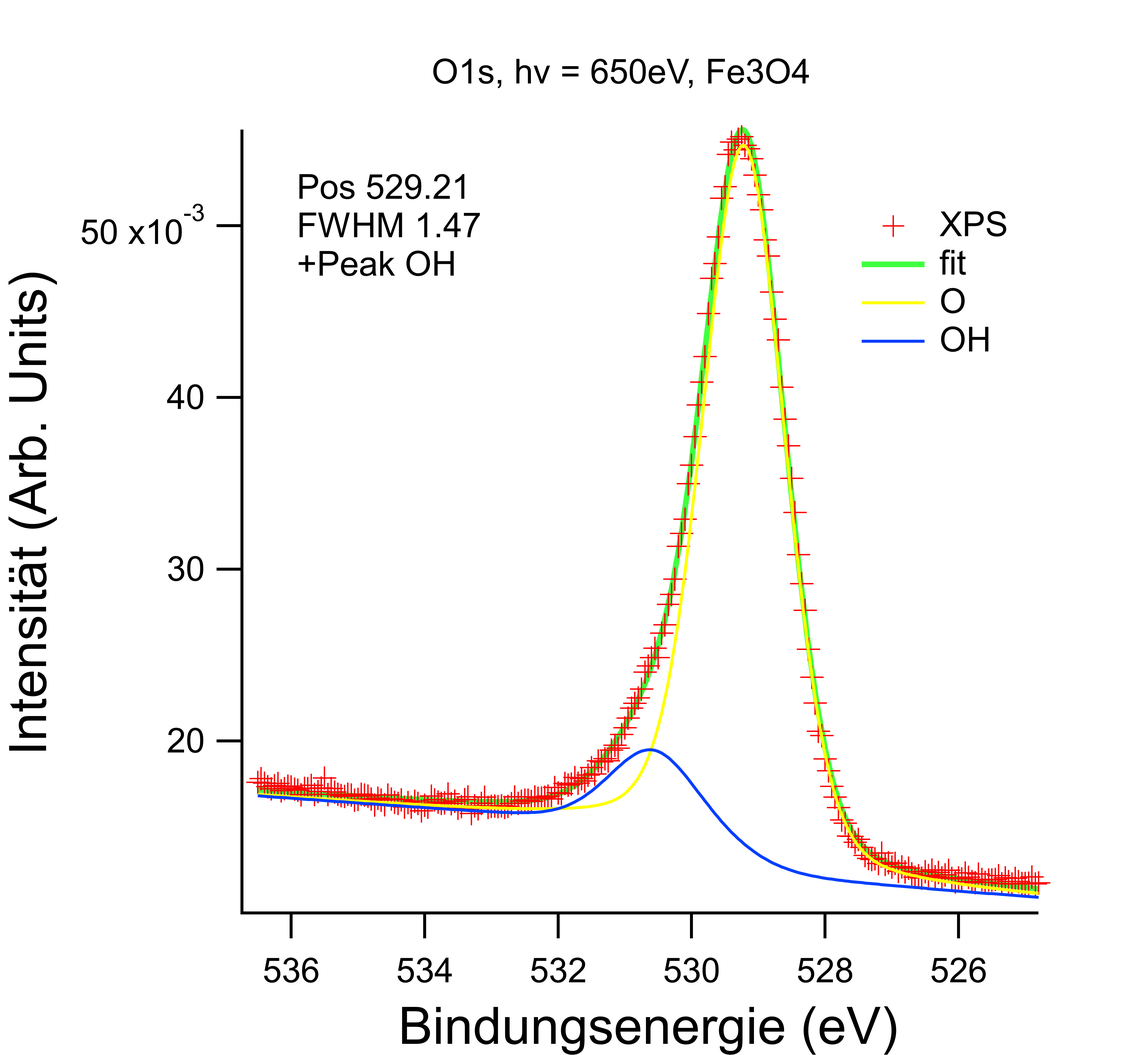
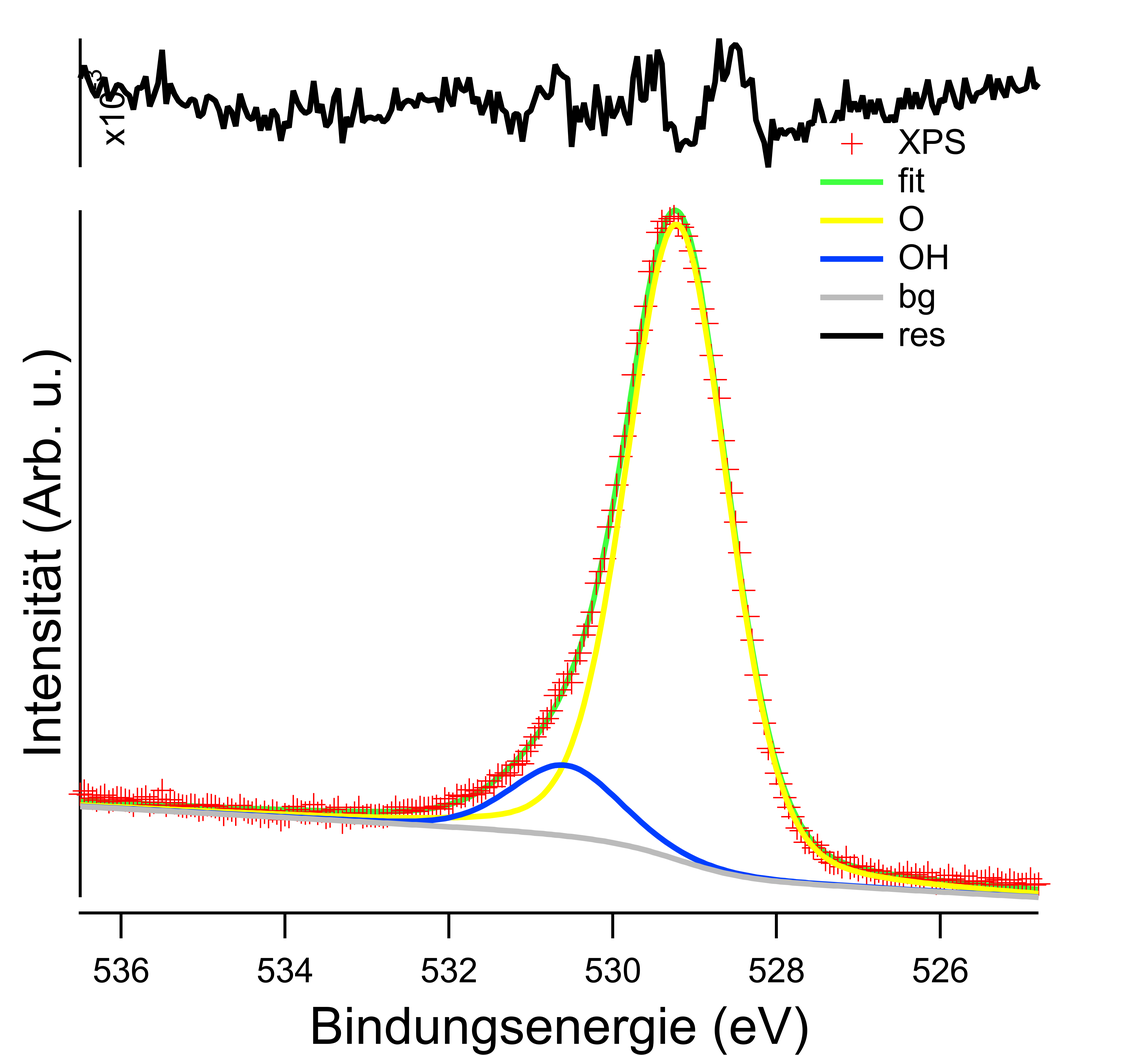
Ergebnisse überarbeitet

diff --git a/content/04_Ergebnisse.tex b/content/04_Ergebnisse.tex
@@ -1,15 +1,14 @@
 \chapter{Ergebnisse}
     Um verschiedene antiferromagnetische Oberflächen zu untersuchen werden diese zunächst präperiert und anschließend charakterisiert.
     Dabei werden zwei unterschiedliche Substrate auf unterschiedliche Weise hergestellt.
-    Die Nickeloxidfilm wurden alle in dem Versuchsaufbau aus \autoref{sec:Versuchsaufbau} vorbereitet und vermessen.
-    Dabei betrug die Photonenenergie immer \SI{21.22}{\electronvolt} und die Probe befands sich bei Raumtemperatur.
+    Die Nickeloxidfilme wurden alle in dem Versuchsaufbau aus \autoref{sec:Versuchsaufbau} vorbereitet und vermessen.
+    Dabei betrug die Photonenenergie immer \SI{21.22}{\electronvolt} und die Probe befand sich bei Raumtemperatur.
     Ergebnisse der Präperation finden sich in \autoref{sec:Prep_NiO}.
-    Das zweite Substrat, das Eisenmonooxid wurde an der NanoESCA Beamline am Synchrotron Elettra in Triest präperiert und charakterisiert \footnote{Näheres zu diesem Versuchsaufbau und der Behandlung der Daten kann in~\cite{ma-DJ} gefunden werden.}.
-    Die Details dieses Prozesses sind in \autoref{sec:Prep_FeO} zusammen gefasst.
-    Auf beide Substrate wurden dann Pentacene Molekühle aufgedampft und mittels der Beugung niederenergetischer Elektronen sowie der Moleküle Orbitale Tomographie betrachtet.
+    Das zweite Substrat, das Eisenmonooxid wurde an der NanoESCA Beamline am Synchrotron Elettra in Trieste präperiert und charakterisiert \footnote{Näheres zu diesem Versuchsaufbau und der Behandlung der Daten kann in~\cite{ma-DJ} gefunden werden.}.
+    Die Details dieses Prozesses sind in \autoref{sec:Prep_FeO} zusammengefasst.
+    Auf beide Substrate wurden Pentacene Molekühle aufgedampft und mittels der Beugung niederenergetischer Elektronen sowie der Molekülorbitaltomographie betrachtet.
     Dessen Ergebnisse sind in \autoref{sec:Ergeb} zusammen gestellt.
     Zur Analyse und Bearbeitung der Daten finden die Software IGOR Pro 8~\cite{IGOR} und Inkscape~\cite{Inkscape} Anwendung.
-
 
     \section{Präperation Nickeloxid} \label{sec:Prep_NiO}
         \begin{figure}
@@ -47,7 +46,7 @@
         Zusätzlich ist die erste Oberflächenbrillouinzone eingetragen, sowie einige Hochsymmetriepunkte.
         Durch Schneiden entlang der orange gestrichelten Linien zwischen den Hochsymmetriepunkten ergibt sich die Bandstruktur, welche in \autoref{fig:Band_Au} dargestellt ist.
         % So lassen sich dann auch die Merkmale in dem integrierten Spektrum aus \autoref{fig:EDC_Au+5A} für das Gold indetifizieren.
-        Direkt an der Oberfläche und nahe dem $\overline{\Gamma}$-Punkt befindet sich der Oberflächenzustand.
+        Nahe dem $\overline{\Gamma}$-Punkt befindet sich der Oberflächenzustand.
         Von der Fermikante bis hin zu etwa \SI{3.2}{\electronvolt} erstreckt sich parabelförmig das s-Band des Goldes.
         Im Bereich zwischen \SIrange{2}{6.2}{\electronvolt} befinden sich die fünf d-Bänder, welche durch ihre flache Form und damit der Lokalisierung auffallen.
 
@@ -109,10 +108,11 @@
         Erkennbar ist somit auch die Oberflächenemfindlichkeit, der verwendeten Methode, da tiefer Lagen nur noch gering zum Signal beitragen.
         Aus der Verschiebung des Punktes an dem die Sekundärelektronen aufhören lässt sich erkennen, dass sich die Austrittsarbeit vom Gold zu dickeren Filmen Nickeloxid zu kleineren Werten verschiebt.
         Dies ist auch in \autoref{fig:WKF_NiO} für verschiedene Aufdampfzeiten dargestellt. 
-        Kleine Verschiebungen können durch unterschiedliche Aufdampfbedingungen erklärt werden, denn es ist bekannt das durch Variation der Parameter gezielt die Eigenschaften manipuliert werden können.
+        Kleine Verschiebungen können durch unterschiedliche Aufdampfbedingungen erklärt werden.
+        Durch Manipulation können gezielt die Eigenschaft beeinflusst werden, wie zum Beispiel die Austrittsarbeit.
         Vom dünnen Nickeloxidfilm zum dickeren Nickeloxidfilm wechselt sie von \SI{4.25}{\electronvolt} zu \SI{3.80}{\electronvolt}.
         Dies liegt daran, dass Sauerstofffehlstellen als negative Defekte gelten und somit die Austrittsarbeit verringern~\cite{IF_3}.
-        Hinzukommend sind Adsorbate wie bei der \ce{OH-}-Terminierung die die Austrittsarbeit weiter verringern~\cite{NiO_40}.
+        Hinzukommend können Adsorbate, wie bei der \ce{OH-}-Terminierung die Austrittsarbeit weiter verringern~\cite{NiO_40}.
         Weitere Verunreinigungen können durch die verwendete Heliumlampe auftreten, da der Druck in der Analysekammer stark ansteigt.
         Dennoch liegt die Austrittsarbeit des dicken Nickeloxidfilms im erwartetn Bereich~\cite{poulain_electronic_2020}.
 
@@ -130,6 +130,12 @@
         Die strukturelle Übereinstimmung ist allerdings klar zu erkennen. 
         Im Vergleich fällt auf, dass die Elemente des Übergangsmetall deutlich präsenter sind, als in der Referenz.
         Dies wiederrum ist in guter Übereinstimmung mit der Annahme von Sauerstofffehlstellen.
+        Zu höheren Bindungsenergien weicht zwar die Intensität stärker ab, allerdings bleibt die Übereinstimmung der Struktur erhalten.
+        Diese Abweichung kann durch den unterschiedlichen Untergrund, der durch die Sekundärelektronen hervorgerufen wird erklärt werden.
+        Die einzelnen Merkmale lassen sich dabei ihrer Herkunft zuordnen. 
+        Bei \SI{2}{\electronvolt} wird die Intensität durch hybridiserten Zustand aus dem Nickel $\text{d}^8$ Zustand mit dem Sauerstoff p Zustand dominiert.
+        Das Sauerstoff 2p Orbital hingegen dominiert den Bereich bei \SIrange[range-phrase=\:und\:]{5.3}{7.3}{\electronvolt}.
+        Der Nickel $\text{d}^7$ Zustand zeigt dabei ein klares Signal bei \SI{10.3}{\electronvolt}.
 
         \begin{figure}
             \centering
@@ -148,8 +154,8 @@
     \FloatBarrier
     \section{Präperation Eisenmonooxid} \label{sec:Prep_FeO}
         Um den Film aus Eisenmonooxid herzustellen wird zunächst eine Eisenprobe verwendet.
-        Diese ist dabei ein dünner Film auf Magnesiumoxid(100).
-        Auf diese wird dann ein Film Magnetit aufgedampft und mittels Heizen und ioneninduziertes Zerstäuben in Eisenmonooxid umgewandelt.
+        Hierbei handelt es sich um einen dünnen auf einem Magnesiumoxid (100) Substrat gewachsenen Eisenfilm.
+        Auf diese wird ein Film Magnetit aufgedampft und mittels Heizen und ioneninduziertes Zerstäuben in Eisenmonooxid umgewandelt.
 
         \begin{figure}
             \centering
@@ -175,26 +181,26 @@
             \label{fig:LEED_pFe}
         \end{figure}
         Zunächst wird die Eisenprobe mittels leichtem ioneninduziertem Zerstäuben und aufheizen auf \SI{600}{\celsius} gereinigt.
-        Die Reinheit der Probe lässt sich auch am Spektrum des $\ce{Fe}_{3\text{p}}$ Übergangs in \autoref{fig:XPSFe3p_Fe} erkennen.
+        Die Reinheit der Probe lässt sich auch am Spektrum des $\ce{Fe}_{3\text{p}}$ Signals in \autoref{fig:XPSFe3p_Fe} erkennen.
         Das Signal bei \SI{52.83}{\electronvolt} lässt sich nach Abzug eines Pseudo-Tougaard Untergrund sehr gut mit einer Pseudo-Voigt Funktion approximieren~\cite{schmid_new_2014}.
         Mit dieser Position des $\ce{Fe}_{3\text{p}}$ Signals passt dies zur Literatur mit einer Position von \SI{53.8}{\electronvolt} und einer Halbwertsbreite von \SI{1.73}{\electronvolt}~\cite{FeO_50}.
         Hierbei ist die gemessene Halbwertsbreite mit \SI{2.11}{\electronvolt} etwas größer. % , wobei die Probe auch bei Raumtemperatur vermessen wurde.
         
         Um Verunreinigungen des sehr reaktiven sauberen Eisens zu vermeiden, wird die Probe anschließend direkt passiviert.
         Dies geschieht in einer Sauerstoffatmosphäre von \SI{1.3e-7}{\milli\bar} für fünf Minuten, während die Probe bei \SI{550}{\celsius} gehalten wird.
-        Anaschließend wird die Probe kurz auf \SI{600}{\celsius} aufgeheizt.
-        Nun wird auch dessen Oberflächenbeschaffenheit kontrolliert und entsprechende LEED-Bilder sind in \autoref{fig:LEED_pFe} zu sehen.
+        Anschließend wird die Probe kurz auf \SI{600}{\celsius} aufgeheizt.
+        Nun wird dessen Oberflächenbeschaffenheit kontrolliert und entsprechende LEED-Bilder sind in \autoref{fig:LEED_pFe} zu sehen.
         Die Spots sind scharf und zeigen auch die Geometrie der $\ce{Fe}-\text{p}(1 \times 1)\ce{O}$ Struktur.
         Alle Spots sind dabei nicht zentrosymmetrisch, da die Probe verkippt ist, wodurch auch der (0,0)-Reflex zu sehen ist.
 
         Um ebefalls die kinetische Energie in die übliche Bindungsenergie umzurechnen muss die Austrittsrabeit des Analysators bestimmt werden.
         Dies ist nötig, da es sich bei den Eisenmonooxid um einen Isolator handelt und hier die Fermikante nicht ermittelt werden kann.
-        Ebefalls ist dies für das Magnetit anzuwenden, da bei der Messtemperatur von \SI{90}{\kelvin} es sich ebenfalls um einen Isolator handelt.
+        Ebenfalls ist dies für das Magnetit anzuwenden, da bei der Messtemperatur von \SI{90}{\kelvin} es sich um einen Isolator handelt.
         Aus der Anpassung an der Fermikante des Eisens lässt sich dessen Position auf \SI{59.5}{\electronvolt} bei einer Photonenenergie von \SI{64}{\electronvolt} bestimmen.
         Dadurch lässt sich für die spätere Umrechnung in die Bindungsenergie die Austrittsarbeit des Analysators bei NanoESCA auf \SI{4.5}{\electronvolt} festlegen. 
         % \textbf{nach Vitaly liegt die bei 4,25eV (kann sich aber nach dem Flashen ändern~\cite{vickerman_surface_2009})}
         Anzumerken ist, dass die Genauigkeit dieser Annahme nicht exakt ist, da zusätzlich die Fermikante durch ein starkes Signal von d-Bändern überlagert wird.
-        Aus dem Abschnitt der Sekundärelektronen lässt sich die Austrittsarbeit der paasivierten Eisenprobe auf \SI{4.06}{\electronvolt} bestimmen.
+        % Aus dem Abschnitt der Sekundärelektronen lässt sich die Austrittsarbeit der passivierten Eisenprobe auf \SI{4.06}{\electronvolt} bestimmen.
         
         \begin{figure}
             \begin{subfigure}[t]{0.34\textwidth}
@@ -222,7 +228,7 @@
         Wie schon für das Gold lässt sich auch die Oberflächenbrillouinzone des Eisens darstellen. 
         Dies ist in \autoref{fig:BZ_Fe} geschehen.
         Aus ihr lässt sich anschließend die Bandstruktur extrahieren, welche in \autoref{fig:Band_Fe} abgebildet ist.
-        Die Auflössung und Messstatistik lässt es allerdings nicht zu einzelne Bänder aufzulösen, auch wenn die winkelaufgelöste Messung in \autoref{fig:BZ_Fe} sehr gut aufgelöst ist.    
+        Die Auflössung und Messstatistik lässt es allerdings nicht zu einzelne Bänder aufzulösen, auch wenn die winkelaufgelöste Messung in \autoref{fig:BZ_Fe} gut aufgelöst scheint. 
 
         \begin{figure}
             \begin{subfigure}[t]{0.48\textwidth}
@@ -238,7 +244,7 @@
                 \label{fig:LEED_FeO}
             \end{subfigure}
             \caption{Das Beugungsbild der Oberfläche nach dem Aufdampfen bei einer Elektronenenergie von \SI{44}{\electronvolt} (\subref{fig:LEED_Fe3O4}).
-            Sowie das Beugungsbild der modifizierten Oberfläche bei einer Elektronenenergie von \SI{125}{\electronvolt}.bei einer Elektronenenergie von \SI{125}{\electronvolt}.}
+            Sowie das Beugungsbild der modifizierten Oberfläche bei einer Elektronenenergie von \SI{125}{\electronvolt} (\subref{fig:LEED_FeO}).}
         \end{figure}
         Auf die passivierte Eisenoberfläche wird Eisen mit einer Rate von \SI{0.6}{\ML\per\minute} und einem Sauerstoffdruck von \SI{2e-7}{\milli\bar} aufgedampft.
         Dabei wird die Probe auf eine Temperatur von \SI{230}{\celsius} gehalten.
@@ -250,6 +256,8 @@
         Es könnte auch sein, dass sich ein bisher nicht bekannte Rekonstruktion ergibt, da dünne Filme bisher nur wenig untersucht wurden.
         Allerdings ist die Kantenlänge der Einheitszelle des Magnetits bereits um \SI{7}{\percent} größer als die dopplete Kantenlänge der Eisen Einheitszelle (\SI{2.862}{\angstrom}~\cite{springer_database}).
         Dies kann zu Gitterverzerrungen in den ersten Lagen führen und wird für größere Schichtdicken wieder der ursprünglichen Gitterkonstante entsprechen.
+        Bei entsprechnder Aufdampfrate sollte die Schichtdicke allerdings ausreichen um solche Verzerrungen auszugleichen.
+        Es sollte sich also die erwarte Gitterkonstante der kristallienen Struktur ergeben, was sich allerdings nicht im LEED-Bild wiederfindet.
 
         Um die Wüstitstruktur zu erhalten wird der aufgedampfte Film zunächst auf \SI{650}{\celsius} aufgeheizt.
         Anschließend werden vermehrt Sauerstoffatome durch ioneninduziertes Zerstäuben ausgelöst, um so die Wüstit Zusammensetzung zu erhalten~\cite{FeO_36}.
@@ -258,9 +266,10 @@
         Durch die induzierte Umordnung der Atome ergibt sich dann die gewünschte Struktur, welche in dem LEED Bild aus \autoref{fig:LEED_FeO} zu erkennen ist.
         Die Intensitäten sind beim Eisenoxid im Gegensatz zu dem passivierten Eisen invertiert, wobei die zuvor starken Spots nicht mehr sichtbar sind.
         Trotz der gleichen Elektronenenergie von \SI{125}{\electronvolt} sind die Spots leicht nach außen gewandert.
-        Dies Widerspricht sich mit der eigentlich größeren Gitterkonstante von Eisenoxid im Bezug auf die $\text{p}(1 \times 1)\ce{O}$ Überstruktur des passivierten Eisens.
+        Dies widerspricht sich mit der eigentlich größeren Gitterkonstante von Eisenoxid im Bezug auf die $\text{p}(1 \times 1)\ce{O}$-Überstruktur des passivierten Eisens.
         Ein klarer Unterschied ist auch zu dem frisch aufgedampften Film in \autoref{fig:LEED_Fe3O4} zu sehen.
         Die ursprünglichen Spots der Überstruktur sind verschwunden und es ergibt sich die erwartete Intensitätsverteilung.
+        Allerdings erscheinen die einzelnen Punkte recht ausgewaschen, was auf Unregelmäßigkeiten in der Oberfläche deutet.
 
         \begin{figure}
             \centering
@@ -286,14 +295,14 @@
         Das Peakverhältnis zwischen dem Sauerstoffsignal bei \SI{503}{\electronvolt} und dem Signal für Eisen bei \SI{651}{\electronvolt} ergibt einen Wert von \num{3.14}~\cite{Auger}.
         Aus der Literatur ist bekannt das für Magnetit ein Wert von \num{3.86} erwartet wird~\cite{FeO_1}.
         Der ermittelte Wert weicht dabei nach unten ab, was durch das zusätzliche Aufheizen auf \SI{600}{\celsius} erklärt werden könnte.
-        Dabei kommt es zur Umstrukturierung der Oberfläche und in Folge dessen auch zur Diffusion von Sauerstoff in Richtung des Substartes~\cite{FeO_62}.
+        Dabei kommt es zur Umstrukturierung der Oberfläche und in Folge dessen auch zur Diffusion von Sauerstoff in Richtung des Substrates~\cite{FeO_62}.
 
         Wird das Verhältnis der Intensitäten der Signale bei \SI{503}{\electronvolt} und \SI{703}{\electronvolt} unter Beachtung der elementspezifischen Sensetivität ausgewärtet ergibt sich das stöchimetrischen Verhältnis.
         Die Sensetivität für Sauerstoff liegt bei \num{0.5} und die des Eisens bei \num{0.2} bei der Verwendung von \SI{3}{\kilo\electronvolt} Primärelektronen~\cite{Auger}.
         Damit lässt sich die Konzentration des Elements $c_i$ nach \autoref{eqn:Auger} bestimmen.
         Das Verhältnis der Konzentrationen ergibt sich hier auf $\ce{O}:\ce{Fe} = \num{0.55}:\num{0.45}$.
         Diese Verhältnis weicht nur leicht vom erwarteten Verhältnis $\num{0.57}:\num{0.43}$ ab.
-        Auf Grund der Dicke des Films von etwa \SI{45}{\angstrom} ist ein Beitrag durch das Eisen-Substrat zu vernachlässigen.
+        Auf Grund der Dicke des Films von etwa \SI{45}{\angstrom} ist ein Beitrag durch das Eisen-Substrat zu vernachlässigen. \textbf{OK?}
         % Problem bereitet natürlich das Substrat, was ebenfalls aus Eisen besteht und auch die passivierte Schicht enthält bereits Sauerstoff.
 
         Für den modifizierten Film ergibt sich ein Verhältnis von \num{2.68} in \autoref{fig:Auger_FeO}.
@@ -301,7 +310,7 @@
         Die kleien Abweichung nach unten kann dadurch erklärt werden, dass es sich um einen sehr dünnen Film auf Eisen handelt.
         Die Augerelektronen mit ihrer für Eisen typischen kinetischen Energie weisen eine mittlere freie Weglänge von etwa \SI{14}{\angstrom} auf.
         Hierdurch ist die Oberflächensensetivität nicht mehr gegeben und es könnte einen Beitrag durch das Eisensubstrat geben. 
-        Ebenso zeigt das Augerspektrum mit dem bereits von Carpa u.A.~\cite{FeO_1} entdecken Augerelektronenspektrum für Eisenoxid zeigt gute Übereinstimmung.
+        Ebenso zeigt das Augerspektrum mit dem bereits von Carpa u.A.~\cite{FeO_1} entdecken Augerelektronenspektrum für Eisenoxid gute Übereinstimmung.
 
         \begin{figure}
             \begin{subfigure}[t]{0.48\textwidth}
@@ -325,18 +334,19 @@
         \end{figure}
         Bei der Betrachtung der Valenzbandspektren in \autoref{fig:EDCs} fallen deutliche Unterschiede auf.     
         Ein Vergleich zwischen dem winkelintegrierte Spektrum des Valenzbands des aufgedampften Films in \autoref{fig:EDC_Fe3O4} (grün) zeigt gute Übereinstimmung mit der Literatur die durch schwarze Punkte angedeutet ist~\cite{FeO_35}.
-        Ein kleine Vererschiebung bei den Spitzen kann durch die Evaluation der Fermikante herrühren.
+        Ein kleine Verschiebung bei den Spitzen kann durch die Evaluation der Fermikante herrühren.
         Zusammen mit dem Ende der Sekundärelektronen ergibt sich die Austrittsarbeit zu \SI{4.35}{\electronvolt}.
         Damit liegt diese deutlich unter dem erwarteten Wert von \SI{5.2}{\electronvolt}~\cite{FeO_40}.
-        Besonders für Oxide kann die Austrittsarbeit deutlich vom Präperationsprozess und Stochimetrie abhängen, sodass ein Unterschied von einem Elektronenvolt keine Besonderheit darstellt~\cite{IF_11}.
-        Das Valenzbandspektrum des modifizierten Fimls in \autoref{fig:EDC_FeO} (grün) zeigt im niederenergetischen Bereich recht gute Übereinstimmung mit der Literatur (schwarz)~\cite{FeO_14}.
+        Besonders für Oxide kann die Austrittsarbeit deutlich vom Präperationsprozess und der Stochimetrie abhängen, sodass ein Unterschied von einem Elektronenvolt keine Besonderheit darstellt~\cite{IF_11}.
+        Das Valenzbandspektrum des modifizierten Films in \autoref{fig:EDC_FeO} (grün) zeigt im niederenergetischen Bereich recht gute Übereinstimmung mit der Literatur (schwarz)~\cite{FeO_14}.
         Es ist ein kleiner Offset unter den beiden zu erkennen, wird dieser vernachlässigt so ist bei der hier verwendeten Probe ein gößerer Sauerstoffanteil zu erkennen.
         Denn das Spektrum lässt durch vier maßgebliche Beiträge beschreiben.
         Hierbei handelt es sich bei \SI{1.5}{\electronvolt} um den Beitrag des hybridiserten Zustand $\ce{Fe}\:\text{d}^6\text{L}^{-1}$ und bei \SI{4}{\electronvolt} um den Beitrag des $\ce{Fe}\:\text{d}^5$ Zustands~\cite{FeO_19}.
         Der Beitrag bei \SI{5.5}{\electronvolt}~\cite{FeO_44} und \SI{6.2}{\electronvolt}~\cite{FeO_18} haben ihren Ursprung beim Sauerstoff 2p.
         Es ist dabei ein deutlicher Unterschied zu dem Spektrum des \ce{Fe3O4} in \autoref{fig:EDC_Fe3O4} zu erkennen.
+        Beide Spektren zeigen einen recht ausgeprägte Spitze mit einer mit einer Schulter bei niedrigen Bindungsenergien.
         Aus dem Punkt an dem die Sekundärelektronen aufhören und der Fermikante lässt sich die Austrittsarbeit auf \SI{3.48}{\electronvolt} bestimmen.
-        Dieser Wert passt damit zum Literaturwertes von \SI{3.5}{\electronvolt}~\cite{FeO_28}..
+        Dieser Wert passt damit zum Literaturwertes von \SI{3.5}{\electronvolt}~\cite{FeO_28}.
         % Hinzu kommt bei einem dünnen Film die Austrittsarbeit auch maßgeblich von dem Übergang zwischen Metall und Oxid und dessen Defektstruktur abhängt~\cite{IF_10}.
         % Eine Absenkung der Austrittsarbeit kann dabei auf Sauerstofffehlstellen hindeuten~\cite{IF_11}, was ebenfalls durch das Augerspektrum bestätigt werden kann.
         
@@ -359,19 +369,19 @@
             \label{fig:XPS_O1s}
         \end{figure}
         Um genauer die Zusammensetzung zu überprüfen wird auch die chemisch sensetive Methode der Röntgenphotoelektronenspektroskopie angewendet.
-        Die entsprechenden Spektren des $\ce{O}_{1\text{s}}$ Signals, sowie des $\ce{Fe}_{3\text{p}}$ Signals sind in \autoref{fig:XPS_Fe3O4} dargstellt.
-        Das $\ce{O}_{1\text{s}}$-Signal zeigt dabei einen kleinen Anteil einer $OH$ Kontamination~\cite{FeO_9}.
-        Aus der Position des $\ce{O}_{1\text{s}}$ lässt sich nach der Literatur keine Information über das vorhandene Eisenoxid gewinnen~\cite{FeO_9, FeO_64, FeO_15}.
-        Somit lässt dies auch keine Identifizierung des vorhandenen Eisenoxids zu~\cite{wandelt_photoemission_1982}.
+        Die entsprechenden Spektren des $\ce{O}_{1\text{s}}$ Signals sind in \autoref{fig:XPS_O1s} dargstellt.
+        Das $\ce{O}_{1\text{s}}$-Signal des aufgebrachten Films zeigt dabei einen kleinen Anteil einer $OH$ Kontamination~\cite{FeO_9}.
+        Aus der Position des $\ce{O}_{1\text{s}}$ lässt sich nach der Literatur keine Information über das vorhandene Eisenoxid gewinnen~\cite{FeO_15, FeO_9, FeO_64, wandelt_photoemission_1982}.
+        Somit lässt dies auch keine Identifizierung des vorhandenen Eisenoxids zu~\cite{}.
         Die Approximation wurde mittels zwei Pseudo-Voigt-Funktionen, sowie einem Shirley-Untergrund ermittelt~\cite{schmid_new_2014}.
         Für den Sauerstoffanteil liegt die ermittelte Position bei \SI{529.2}{\electronvolt} und damit unterhalb der erwarteten Position des Signals bei \SI{530.3}{\electronvolt}~\cite{wandelt_photoemission_1982}.
-        Der \ce{OH}-Anteil liegt ebenfalls unterhalb \SI{0.9}{\electronvolt} unterhalb des erwarteten Wertes von \SI{531.5}{\electronvolt}~\cite{wandelt_photoemission_1982}.
-        Ursache könnte sein, dass es an einer Refernzmessung zur Bestimmung der Photonenenergie fehlt, welche mit \SI{650}{\electronvolt} angenommen wurde und damit zu einer konstanten Verschiebung.
+        Der \ce{OH}-Anteil liegt ebenfalls \SI{0.9}{\electronvolt} unterhalb des erwarteten Wertes von \SI{531.5}{\electronvolt}~\cite{wandelt_photoemission_1982}.
+        Ursache könnte sein, dass es an einer Refernzmessung zur Bestimmung der Photonenenergie fehlt, welche mit \SI{650}{\electronvolt} angenommen wurde und damit zu einer konstanten Verschiebung führt.
         Ermittelte Halbwertsbreiten hingegen passen recht gut zur Literautur von etwa \SI{1.6}{\electronvolt} und sind mit \SI{1.5}{\electronvolt} sogar etwas kleiner~\cite{FeO_53}.
         Beim modifizierten Film zeigt sich in \autoref{fig:XPSO1s_FeO} hingegen die Abwesenheit der \ce{OH} Kontamination.
         Die Position lässt sich dabei auf \SI{529.7}{\electronvolt} bestimmen und liegt wie schon für den unmodifizierten Film leicht unterhalb des erwarteten Wertes.
-        Da zwischen den beiden Messungen am Monochromator die Gitter getauscht wurden sind leichte unterschiedliche Shifts in der Photonenenergie anzunehmen.
-        Dies würde auch den relativen Shift der beiden Peaks von \SI{0.5}{\electronvolt} untereinander erklären, welcher nicht erwartet wird~\cite{FeO_9, FeO_64, FeO_15, wandelt_photoemission_1982}.
+        Da zwischen den beiden Messungen am Monochromator die Gitter getauscht wurden sind leichte unterschiedliche Photonenenergien anzunehmen.
+        Dies würde auch den relative Position der beiden Peaks von \SI{0.5}{\electronvolt} untereinander erklären, welcher nicht erwartet wird~\cite{FeO_15, FeO_9, FeO_64, wandelt_photoemission_1982}.
 
         \begin{figure}
             \centering
@@ -400,28 +410,27 @@
         Um die Gesamtintensität zu beschreiben wurde ein Shirley-Untergrung gemeinsam mit drei Pseudo-Voigt-Funktionen mit einer Asymmetrie von \num{0.3} und einer Halbweirtsbreite von \SI{2.7}{\electronvolt} angepasst.
         So ergaben sich die einzelnen Positionen zu \SI{54.1}{\electronvolt}, \SI{55.3}{\electronvolt} und \SI{56.8}{\electronvolt}.
         Der Beitrag des niederenergetisten Signals liegt bei etwa \SI{60}{\percent} und wird dem $\ce{Fe}^{2+}$ zugeordnet.
-        Für den $\ce{Fe}^{3+}$-Beitrag ergeben sich dann noch \SI{40}{\percent}.
-        Bei Magnetit sollte diese Verhältnis bei 1:1 liegen.
+        Für den $\ce{Fe}^{3+}$-Beitrag ergeben sich noch \SI{40}{\percent}.
+        Erwartet wird bei Magnetit ein Verhältnis von 50:50.
 
         Bei dem behandelten Film zeigt sich eine Verschmalerung der Gesamtintensität.
         Eine gute Approximation mit nur zwei Pseudo-Voigt-Funktionen mit der Halbwertsbreite von \SI{3.7}{\electronvolt} und einer Asymmetrie von \num{0.4} zeigt gute Evoluation des Signals.
         Dabei ergebn sich die beiden Peakpositionen zu \SI{54.5}{\electronvolt} und \SI{55.7}{\electronvolt}.
-        Erneut lässt sich ein relative verschiebung der Bindungsenergien zum unbehandelten Film sehen, dies ist ebenfalls durch den Wechsel des Gitters zu erklären und liegt im selben Größenbereich von wenigen Elektronenvolt Zehnteln.
+        Erneut lässt sich ein relative Position der Bindungsenergien zum unbehandelten Film sehen, dies ist ebenfalls durch den Wechsel des Gitters zu erklären und liegt im selben Größenbereich von wenigen Elektronenvolt Zehnteln.
         Es lässt sich klar die Intensitätsverschiebung zu niedrigeren Energien hin erkennen.
         Der relative Anteil des $\ce{Fe}^{2+}$-Anteils liegt bei \SI{86}{\percent} wohingegen der des $\ce{Fe}^{3+}$ auf \SI{14}{\percent} gesunken ist.
         Damit liegt dies im Bereich des erwarteten Wertes für das nicht-stochimetrische Wüstit \textbf{Referenz}.
 
-        Ein Vergleich mit der Literatur zeigt, dass zwischen dem $\ce{Fe}^{2+}$-Signal und $\ce{Fe}^{3+}$-Signal eine Verschiebung von etwa \SI{1.8}{\electronvolt} einstellt~\cite{FeO_15, FeO_12}.
+        Ein Vergleich mit der Literatur zeigt, dass sich zwischen dem $\ce{Fe}^{2+}$-Signal und $\ce{Fe}^{3+}$-Signal eine Verschiebung von etwa \SI{1.8}{\electronvolt} einstellt~\cite{FeO_15, FeO_12}.
         Für den unbehandelten Film passt dies recht gut, wenn die gewichtete Position der beiden Beitrage \SI{55.9}{\electronvolt} verwendet wird.
         Wohingegen für den behandelten Film sich nur eine Verschiebung von \SI{1.2}{\electronvolt} einstellt.
         Eine Deutung der genauen Positionen der einzelnen Beiträge gestaltet sich als schwierig.
         Die Werte des $\ce{Fe}^{2+}$-Signal reichen in der Literatur von \SI{53.7}{\electronvolt} \cite{FeO_7} bis zu \SI{54.9}{\electronvolt} \cite{FeO_12}.
-        Auch mit unter verschieben Kompositionen verschiedene Positionen hervorrufen \cite{FeO_12}.
-        Ein weitere Fehlerquelle könnte die Wahl der Asymmetrie und Anzahl der verwendeten Voigt-Funktionen sein.
-        Manche Quellen sagen sechs Peaks voraus~\cite{FeO_14, FeO_17, FeO_15} wegen der Feinstruktur, andere zwei (Fe2+, Fe3+)~\cite{FeO_15, FeO_11, FeO_10, FeO_7} oder drei (Fe2+, Fe3+tetra, Fe3+octa)~\cite{FeO_12} oder auch vier um die Spin-Bahn-Aufspaltung mit etwa \SI{1}{\electronvolt} einzubeziehen~\cite{FeO_55}.
-        Die Asymmetrie kann durch Mehrfachionisation bei innere Prozesse wie Augerzerfall oder durch mehrere Photonen begründet werden~\cite{FeO_55}.
+        Auch mit unter rufen verschieben Kompositionen verschiedene Positionen hervor \cite{FeO_12}.
+        Eine weitere Fehlerquelle könnte die Wahl der Asymmetrie und Anzahl der verwendeten Voigt-Funktionen sein.
+        Manche Quellen sagen sechs Peaks voraus~\cite{FeO_14, FeO_17, FeO_15} wegen der Feinstruktur, andere zwei ($\ce{Fe}^{2+}$, $\ce{Fe}^{3+}$)~\cite{FeO_15, FeO_11, FeO_10, FeO_7} oder drei ($\ce{Fe}^{2+}$, $\ce{Fe}^{3+}_\text{tetra}$, $\ce{Fe}^{3+}_\text{okta}$)~\cite{FeO_12} oder auch vier um die Spin-Bahn-Aufspaltung mit etwa \SI{1}{\electronvolt} einzubeziehen~\cite{FeO_55}.
+        Die Asymmetrie kann durch Mehrfachionisation bei inneren Prozessen wie Augerzerfall oder durch mehrere Photonen begründet werden~\cite{FeO_55}.
         Die Halbwertsbreite ist recht groß, da es sich bei High-Spin Zuständen zur Ausbildung von Multipletts kommt und diese nicht aufgelöst werden können~\cite{wandelt_photoemission_1982}.
-        Ebenso lässt sich die Spin-Bahn-Aufspaltung des $\ce{Fe}_{3p}$ nicht auflöseb, da 1/2 und 3/2 nur etwa 1eV auseinander liegen~\cite{FeO_55}.
 
         \begin{figure}
             \centering
@@ -441,17 +450,17 @@
             Aufgenommen mit rechtszirkular polarisiertem Licht und Teilelektronenausbeute von Sekundärelektronen bei einer Energie von $E_\text{Kin} = \SI{7}{\electronvolt}$.}
             \label{fig:XAS}
         \end{figure}
-        Beim Vergleich zwischen dem Röntgenabsorptionsspektrums des unbehandleten Filmsin \autoref{fig:XAS_Fe3O4}, sowie des behandleten Films in \autoref{fig:XAS_FeO} fällt auf, dass sich das Signal der $\text{L}_3$-Absorptionskante zu kleineren Photonenenergie hin verschoben hat.
-        Die Verschiebung beträgt etwa \SI{0.4}{\electronvolt} und ist korreliert mit dem Oxidationszustand \cite{chen_nexafs_1997}.
-        Mit steigendem Oxidationszustand steigt ebenfalls auch die Absorptionsenergie des $\text{L}_3$-Übergangs.
-        Erkennbar ist, dass sich der $\ce{Fe}^{2+}$-Anteil erhöht und gleichfalls sich der $\ce{Fe}^{3+}$-Anteil verringert hat durch die Behandlung.
-        Denn der Beitrag bei \SI{707}{\electronvolt} wurde für \ce{FeO} mit einer leichter Schulter zu \SI{709}{\electronvolt} beobachtet~\cite{FeO_45}.
+        Beim Vergleich zwischen dem Röntgenabsorptionsspektrum des unbehandleten Films in \autoref{fig:XAS_Fe3O4}, sowie des behandleten Films in \autoref{fig:XAS_FeO} fällt auf, dass sich das Signal der $\text{L}_3$-Absorptionskante zu kleineren Photonenenergie hin verschoben hat.
+        Die Verschiebung beträgt etwa \SI{0.4}{\electronvolt} und ist korreliert mit dem Oxidationszustand~\cite{chen_nexafs_1997}.
+        Mit steigendem Oxidationszustand steigt ebenfalls auch die Absorptionsenergie des $\text{L}_3$-Übergangs~\cite{chen_nexafs_1997}.
+        Durch die Behandlung steigt folglich der $\ce{Fe}^{2+}$-Anteil und gleichfalls sinkt der $\ce{Fe}^{3+}$-Anteil.
+        Dies wird durch den erhöhten Beitrag bei \SI{707}{\electronvolt} begründet, welcher für \ce{FeO} mit einer leichter Schulter zu \SI{709}{\electronvolt} beobachtet wurde~\cite{FeO_45}.
         Für Magnetit verhält sich dies genau umgekehrt.
         Auch die Breite der $\text{L}_3$-Absorptionskante steigt vom unbehandeltem zum behandelten Film an.
-        Dies ist für eine kleinere Beteiligung von größeren Oxidationszuständen zu erwarten \cite{chen_nexafs_1997}.
+        Dies ist für eine kleinere Beteiligung von größeren Oxidationszuständen zu erwarten~\cite{chen_nexafs_1997}.
         Klar erkennbar ist auch die verbreitere Struktur der $\text{L}_2$-Absorptionskante zwischen dem behandeltem und unbehandeltem Film.
         Bei dem unbehandelten Film ist die aus der Literatur bekannte Doppelspitze nicht sehr ausgeprägt, wohingegen sich bei dem behandelten Film nur eine Spitze wie erwartet ausbildet~\cite{FeO_45}.
-        Die allegemeine Struktur dieser Spektren ist recht schwierig zu beschreiben und unterscheidet sich deutlich bei unterschiedlichen Oxiden~\cite{FeO_46}.
+        Die allgemeine Struktur dieser Spektren ist recht schwierig zu beschreiben und unterscheidet sich deutlich bei unterschiedlichen Oxiden~\cite{FeO_46}.
 
         Im Zusammenspiel der zur Charakterisierung genutzten Methoden lässt sich wohl sagen, dass es sich bei dem direkt aufgedampften Film um keine sauber präperierte Magnetit Oberfläche handelt.
         Hierzu sind die Abweichungen in den erwarteten LEED-Struktur für die gewünschte Orientierung zu groß.
@@ -462,12 +471,11 @@
         Viel mehr scheint es sich also um eine gemischte Phase als um reines Magnetit zu handeln.
         Da es sich nur um eine Zwischenphase zur Präperation des Eisenmonoxid handelt wird auf eine weiter Charakterisierung und das Aufbringen von Molekülen verzichtet.
 
-        Hier gegen steht das Wüstit, welches nur leichte Abweichungen zu den Erwartungen bei den unterschiedlichen Messmethoden zeigt.
-        Auf Grund der metastabilen Phase bei Raumtemperatur und tendenziellen nicht-tochimetrischen Verbindung lassen sich diese aber tolerieren.
+        Hiergegen steht das Wüstit, welches nur leichte Abweichungen zu den Erwartungen bei den unterschiedlichen Messmethoden zeigt.
+        Auf Grund der metastabilen Phase bei Raumtemperatur und nicht-stochimetrischen Verbindung lassen sich diese aber tolerieren.
         Eine wiederholte Präperation und genaueren Messungen können dies noch verbessern.
         Besonders schnelles herabkühlen soll die Stochimetrie erhöhen \textbf{Referenz}.
-        Zusammenfassend lässt sich sagen, dass der modifizierte Film sich als \ce{FeO} identifizieren lässt, wohingegen es sich bei dem direkt aufgedampft Film wohl um eine Mischphase handelt und nicht um reines Magnetit.
-
+        Zusammenfassend lässt sich sagen, dass der modifizierte Film sich als \ce{FeO} identifizieren lässt.
 
         \begin{figure}
             \begin{subfigure}[t]{0.34\textwidth}
@@ -496,9 +504,8 @@
         Daraus lässt sich durch Schneiden des dreidimensionalen Datensatzes die Bandstruktur gewinnen, welche in \autoref{fig:Band_FeO} zu sehen ist.
         Wie schon beim Eisen reicht die Auflösung nicht aus um die Bänder klar zu erkennen.
         Auffällig ist allerdings, dass sich die Intensität bezüglich des Eisens (s. \autoref{fig:Band_Fe}) hin zu größeren Bindungsenergien verschoben hat.
-        
-
-        
+        Dies lässt sich auf den Sauerstoffanteil in der Probe zurückführen. 
+        Bei Eisen hingegen ergibt sich kein Beitrag durch Sauerstoff, sondern maßgeblich durch das d-Niveau nahe der Fermikante.
 
     \section{Molekühle auf Antiferromagneten} \label{sec:Ergeb}
         \begin{figure}

diff --git a/content/02_Grundlagen.tex b/content/02_Grundlagen.tex
@@ -1,6 +1,6 @@
 \chapter{Grundlagen}
-    Übergangsmetalloxide zeigen zahlreiche unterschiedliche Eigenschaften.
-    Ihre große Variation ist Thema aktueller Forschung und soll im \autoref{sec:TMO} genauer behandelt werden.
+    Übergangsmetalloxide zeigen zahlreiche und unterschiedlichdte Eigenschaften.
+    Ihre große Varriation ist Thema aktueller Forschung und soll im \autoref{sec:TMO} genauer behandelt werden.
     Eine besondere Untergruppe der Übergangsmetalloxide sind die Antiferromagneten.
     Durch die antiferromagnetische Kopplung der Lagen ergeben sich neue Phänomene, wie eine hohe Magnonenfrequenz.
     Auf diese Materialeigenschaft soll in \autoref{sec:AFM} eingegangen werden.
@@ -19,7 +19,7 @@
     \section{Übergangsmetalloxide} \label{sec:TMO}
         Übergangsmetalloxide finden sich in einer Vielzahl in unserer Umwelt, meist jedoch unter anderem Namen.
         So ist der Rost wohl eins der Bekanntesten, dabei handelt es sich um eine Form des Eisenoxids.
-        Magnetit hingegen ist in der Wissenschaft sehr bekannt, da es zu den ersten entdecken magnetischen Materialien gehört.
+        Magnetit hingegen ist in der Wissenschaft sehr bekannt, da es das ersten entdecken magnetischen Material ist \textbf{Referenz}.
         Die Eigenschaften der Übergangsmetalloxide varrieren in einem sehr großen Bereich.
         So gibt es ferro- und antiferromagnetische Übergangsmetalloxide.
         Die elektrische Leitfähigkeit varriert dabei von leitende, sogar Hochtemperatur supraleitende über halbmetallisch bis hinzu isolierend~\cite{IF_5}.
@@ -32,12 +32,12 @@
         Bei der Bindung zwischen dem Sauerstoff und dem Übergangsmetall sind dessen p-Orbitale, sowie die s-Orbitale des Metalls beteiligt.
         Dies führt zu eine Hybridisierung und Ausbildung neuer Zustände.
         Ferner fallen die s-Orbital Elektronen als Ladungsabschirmung bei den d-Elektronen des Übergangsmetalls weg.
-        Hierbei kommt es dann zur starke Elektron-Elektron-Wechselwirkung unter den d-Elektronen, diese Korrelation sorgt für eine starke Lokalisierung~\cite{dane_beschreibung_2008}.
+        Hierbei kommt es zur starken Elektron-Elektron-Wechselwirkung unter den d-Elektronen, diese Korrelation sorgt für eine starke Lokalisierung~\cite{dane_beschreibung_2008}.
         In Anwesenheit des Kristallfeldes der Liganden spalten die entarteten Zustände auf.
-        Bei Monooxiden, wie dem Nickeloxid (\ce{NiO}) und Wüstit nehmen die Übergangsmetallionen eine oktaedrisch Position zwischen den Sauerstoffionen ein.
+        Bei Monooxiden, wie dem Nickeloxid (\ce{NiO}) und Wüstit (\ce{FeO}) nehmen die Übergangsmetallionen eine oktaedrisch Position zwischen den Sauerstoffionen ein.
         Wodurch die Orbitale $d_{z^2}$ und $d_{x^2-y^2}$ energetisch angehoben und die anderen energetisch abgesenkt werden.
         Die so entstandenen neuen Energieniveaus lassen durch die Wechselwirkung zwischen Ladung, Orbitalen, Gitter und Spin auch magnetische Eigenschaften aufleben.
-        So kann durch die Kristallfeldaufspaltung sich \textit{High}- und \textit{Low}-Spin Konfiguration ausbilden.
+        So können sich durch die Kristallfeldaufspaltung \textit{High}- und \textit{Low}-Spin Konfigurationen ausbilden.
         Die Eigenschaften werden maßgeblich durch den Überlapp der beteiligten Orbitale bestimmt~\cite{kupper_electronic_2005}.
         In Folge dessen sind sie abhängig von den Oxidationszuständen, der Stochimetrie und der Struktur.
 
@@ -67,12 +67,12 @@
         Diese Bandlücke liegt dabei zwischen den besetzen Sauerstoffzuständen und den unbesetzten d-Zuständen des Übergangsmetall.
         Folglich handelt es sich also um Halbleiter oder Isolatoren.
 
-        Es können sich zwei Arte von Bandlücken ausbilden, welche in den Abbildungen \ref{fig:Mott} und \ref{fig:Charge} abgebildet sind.
+        Es können sich zwei Arten von Bandlücken ausbilden, welche in \autoref{fig:Bandl} abgebildet sind.
         Wichtig hierfür ist die Austauschwechselwirkungsenergie $U$, welche die Energie darstellt um ein Elektron von einem Metallatom zu entfernen und es einem weiteren Metallatom hinzuzufügen.
-        Auch die Ladungsübertragsenergie~$\Delta$ ist zur Beschreibung notwendig, diese stellt die Energie da um ein Elektron aus dem Liganden zum Metall zu übertragen~\cite{stohr_magnetism_2006}.
-        Die erste Art der Bandlücke ist die in der $U$ größer ist als $\Delta$, hierbei handelt es sich dann um Mott-Hubbard-Isolatoren und die Bandlücke wird durch $U$ definiert.
+        Auch die Ladungsübertragsenergie~$\Delta$ ist zur Beschreibung notwendig, diese stellt die Energie da, um ein Elektron aus dem Liganden zum Metall zu übertragen~\cite{stohr_magnetism_2006}.
+        Die erste Art der Bandlücke ist die in der $U$ größer ist als $\Delta$, hierbei handelt es sich um Mott-Hubbard-Isolatoren und die Bandlücke wird durch $U$ definiert.
         Im Gegensatz dazu, wenn $\Delta < U$ handelt es sich um so gennate Ladungstransfer-Isolatoren und die Bandlücke wird durch $\Delta$ beschrieben.
-        Zu diesen zählt auch das Nickeloxid, dass trotz teilweise gefüllten d-Band ein Isolator ist~\cite{IF_5}.
+        Zu diesen zählt das Nickeloxid und Wüstit, dass trotz teilweise gefüllten d-Bändern Isolatoren sind~\cite{IF_5}.
 
         Im Gegensatz zu kristallienen Eigenschaften sind die Eigenschaften von dünnen Filmen und Oberflächen noch wenig erforscht.
         Dünne Filme aus Übergangsmetalloxiden stellen einen Teilbereich dar und bringen durch ihre zusätzlichen Einschränkung neue Möglichkeiten mit.
@@ -86,7 +86,7 @@
 
         Wichtig für die Interaktion mit Adsorbaten ist die Grenzfläche.
         An der Oberfläche spielen die Polarität, Anzahl ungesättigter Bindungen wie auch Defekte eine entscheidene Rolle bei der Oberflächenrekonstruktion und Reaktivität.
-        Die hier untersuchten Monooxid Systeme, mit der Beteiligung von 3d-Übergangsmetallen kristallisieren in der Kochsalzstruktur (\ce{NiO}, \ce{FeO}).
+        Die hier untersuchten Monooxid Systeme, mit der Beteiligung von 3d-Übergangsmetallen kristallisieren in der Kochsalzstruktur.
         % Im Gegensatz dazu kristallisiert das Magnetit (\ce{Fe3O4}) in der inversen Spinellstruktur~\cite{IF_5}.
         Die Oberflächen der Kochsalzstruktur mit der (100)-Orientierung sind meist stabil, wohingegen die der (111)-Orientierung instabil sind.
         Dies liegt an der polaren Oberfläche der (111)-Orientierung und des damit verbundenen großen Oberflächendipolmoments.
@@ -169,7 +169,7 @@
             Die Eigenschaften der Moleküle ähneln also sehr stark den Eigenschaften aus der Gasphase~\cite{cinchetti_activating_2017}.
             Allerdings kann es beim Substrat zu Relaxation kommen.
 
-            Charakteristisch für die Physisorption ist die Abwesenheit von chemischen Bindungen, sowie einen Substrat-Adsorbat-Abstand von mehr als \SI{3}{\angstrom}. %~\cite{bergenti_spinterface_2019}
+            %, sowie einen Substrat-Adsorbat-Abstand von mehr als \SI{3}{\angstrom}. %~\cite{bergenti_spinterface_2019}
             % Die Van-der-Waals-Kraft kann man in drei Arten unterteilen:
             % \begin{itemize}
             %     \item \textbf{Dipol-Dipol-Kraft:} Sie ist die Kraft zwischen zwei permanenten Dipolen, die Keeson-Wechselwirkung.
@@ -188,6 +188,7 @@
             Die Van-der-Waals-Kraft gehört zu den elektrostatischen Kräften, es werden also keine Elektronen mit dem Substrat ausgetauscht~\cite{bergenti_spinterface_2019}.
             Allein die Induzierung und Fluktuation von Dipolen führt zu dieser Bindung zwischen Molekül und Substrat.
             Vermehrt tritt die Physisorption bei Halbleitern und Isolatoren auf, da die Molekülzustände in der Bandlücke liegen und so keine Bindung mit dem Substrat eingegangen werden kann~\cite{IF_1}.
+            Charakteristisch für die Physisorption ist die Abwesenheit von chemischen Bindungen.
         
         \subsection{Chemisorption}
             % Im Gegensatz zur Physisorption findet bei der Chemisorption  ein Austausch von Elektronen stattfinden.
@@ -479,12 +480,3 @@
             Diese Bauteile können dann in bestehende Schaltungen eingebaut werden und erhöhen so die Effizienz und können dabei die Baugröße reduzieren, sowie zur Reduktion des Gewichts beitragen.
             Versuche zur Anordnung von Pentacene auf den \ce{NiO}(111) und \ce{FeO}(100) Oberflächen konnten aktuell noch nicht beobachtet werden.
             Wohl ist aber bekannt, dass sich Pentacene auf $\ce{Fe}-\text{p}(1 \times 1)\ce{O}$ strukturiert anordnet.
-        
-
-            \section{IDEEN}
-            \begin{itemize}
-                \item O1s/Fe3p erklären 
-                \item XPS ausführlicher? (Asymmetrie)
-                \item mehr Motivierend aktuelle Anwendung
-            \end{itemize}
-            
